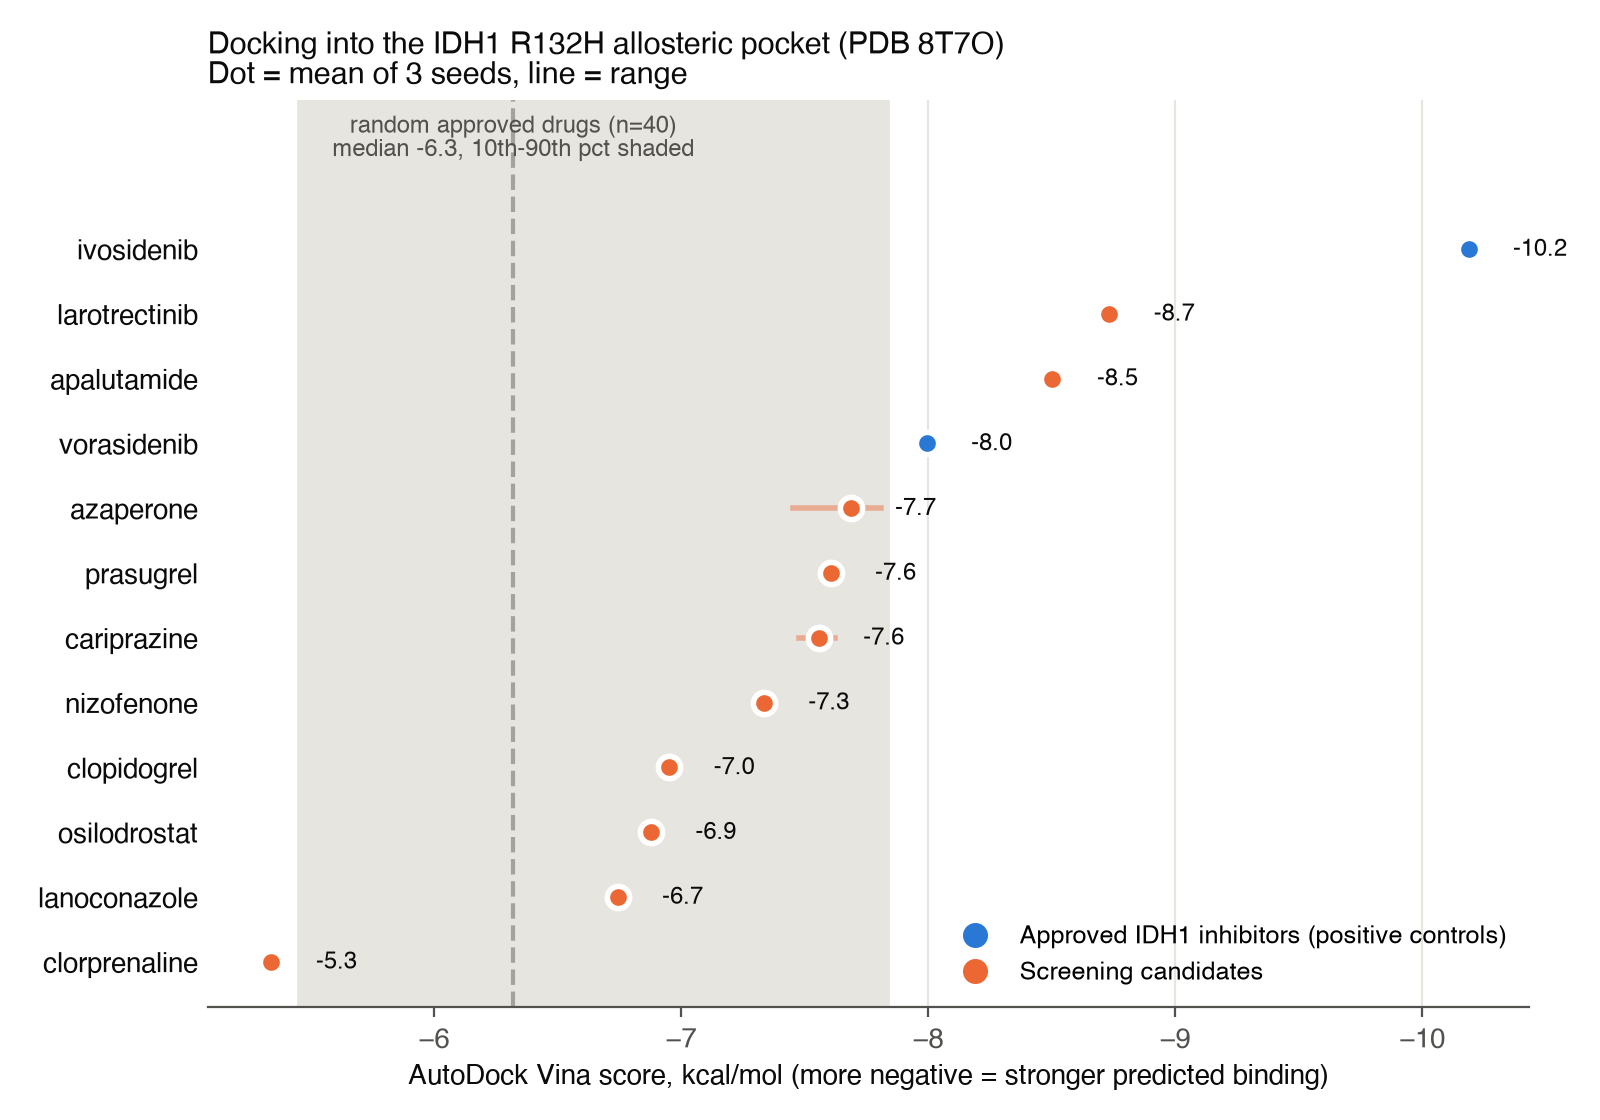
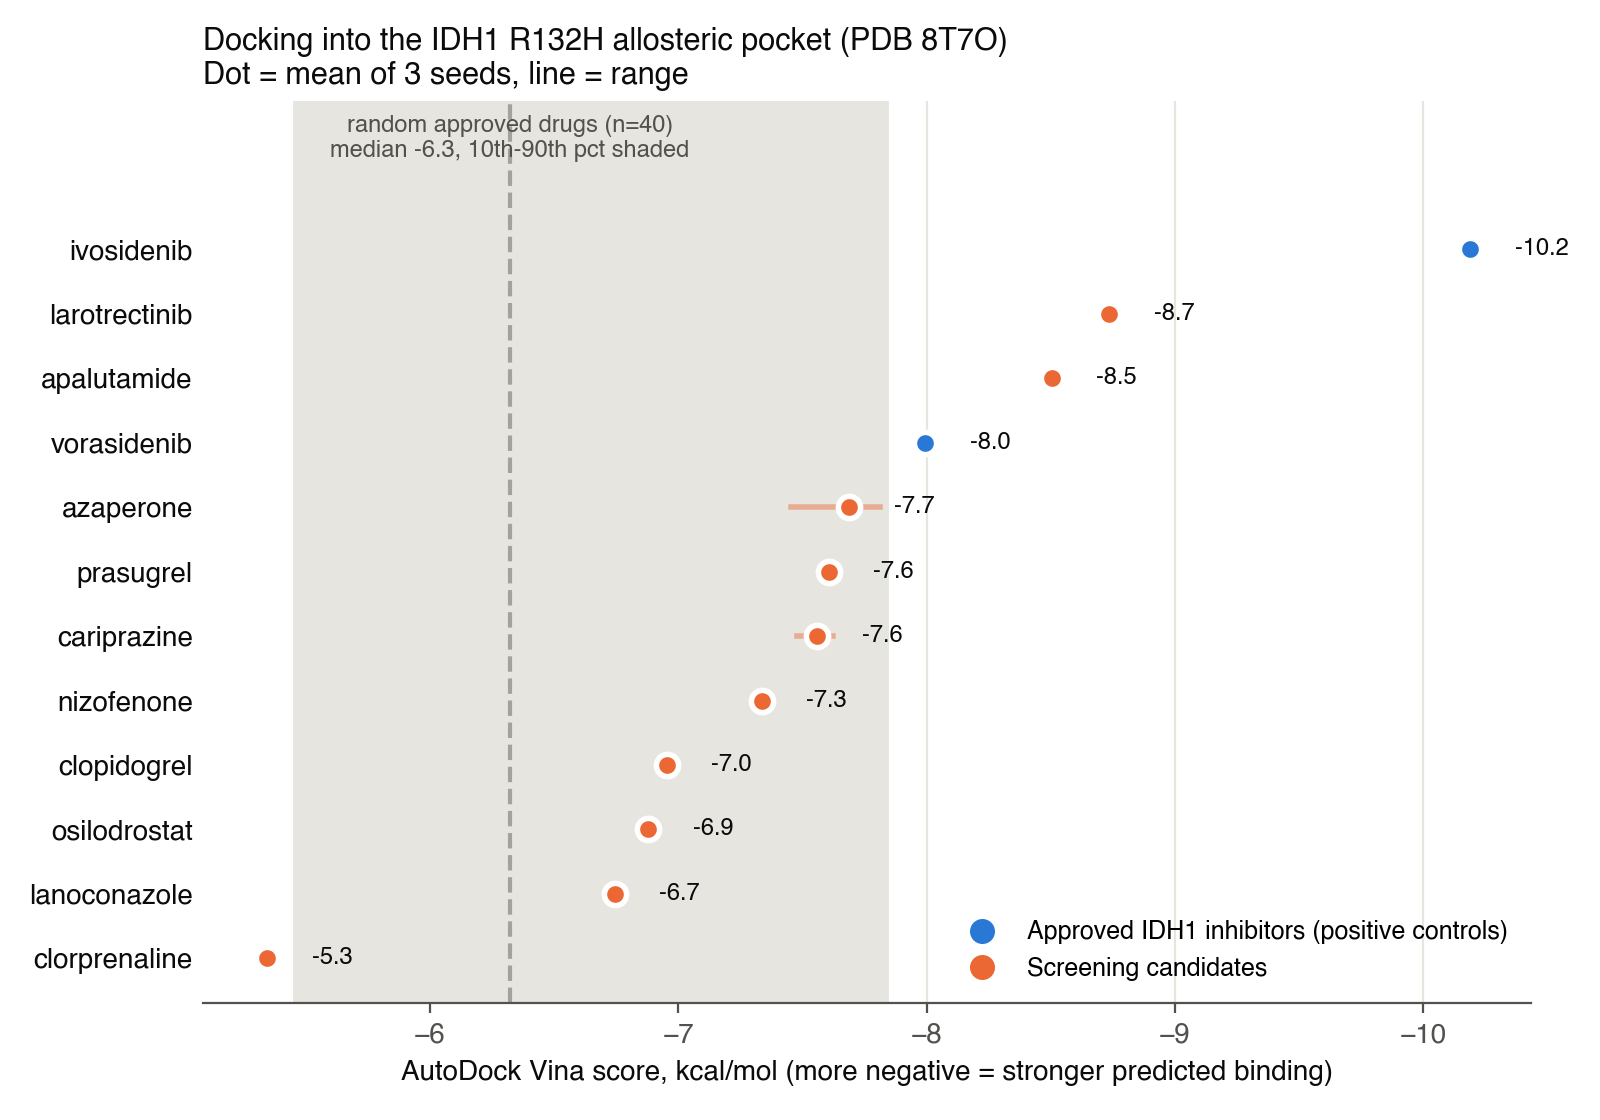
Add size-adjusted docking analysis; candidates' advantage is mostly molecule size

diff --git a/make_figures.py b/make_figures.py
@@ -1,5 +1,6 @@
 """Figures for the README from results/docking_summary.csv and results/docking_scores_all_seeds.csv."""
 import matplotlib.pyplot as plt
+import numpy as np
 import pandas as pd
 
 COLORS = {"control": "#2a78d6", "candidate": "#eb6834", "background": "#a3a29c"}
@@ -10,6 +11,15 @@ plt.rcParams.update({"font.family": "Helvetica", "font.size": 10, "axes.edgecolo
 summary = pd.read_csv("results/docking_summary.csv")
 seeds = pd.read_csv("results/docking_scores_all_seeds.csv")
 bg = summary[summary.group == "background"]
+
+# --- Size adjustment: fit score ~ heavy atoms across all docked drugs, keep the residual ---
+slope, intercept = np.polyfit(summary.heavy_atoms, summary["mean"], 1)
+summary["expected_from_size"] = slope * summary.heavy_atoms + intercept
+summary["beyond_size"] = summary["mean"] - summary["expected_from_size"]  # negative = better than size predicts
+summary["size_adjusted_rank"] = summary["beyond_size"].rank().astype(int)
+(summary.sort_values("beyond_size")
+ [["compound", "group", "mean", "heavy_atoms", "expected_from_size", "beyond_size", "size_adjusted_rank"]]
+ .round(2).to_csv("results/size_adjusted.csv", index=False))
 
 # --- Figure 1: scores vs the random-drug background ---
 ranked = summary[summary.group != "background"].sort_values("mean", ascending=False)
@@ -54,6 +64,9 @@ for _, r in summary[summary.group != "background"].iterrows():
         ax.annotate(r.compound, (r.heavy_atoms, r["mean"]), xytext=(6, 2),
                     textcoords="offset points", fontsize=8.5, color=INK)
 r = summary.heavy_atoms.corr(-summary["mean"])  # size vs predicted affinity
+xs = np.array([summary.heavy_atoms.min(), summary.heavy_atoms.max()])
+ax.plot(xs, slope * xs + intercept, color=MUTED, lw=1.2, ls="--", zorder=2,
+        label=f"Size-only fit ({slope:.2f} kcal/mol per heavy atom)")
 ax.set_xlabel("Heavy atoms (molecule size)")
 ax.set_ylabel("Vina score, kcal/mol")
 ax.invert_yaxis()
@@ -66,4 +79,6 @@ ax.set_title(f"Bigger molecules score better\nPearson r = {r:.2f} between size a
              f"n = {len(summary)} drugs", loc="left", fontsize=11, color=INK)
 fig.tight_layout()
 fig.savefig("results/size_bias.png", dpi=200, facecolor="white")
-print(f"Saved figures. Size-score correlation r = {r:.2f}")
+print(f"Saved figures. Size-score correlation r = {r:.2f}, slope {slope:.3f} kcal/mol per heavy atom")
+print(summary.sort_values("beyond_size")[["compound", "group", "mean", "expected_from_size", "beyond_size",
+                                           "size_adjusted_rank"]].round(2).to_string(index=False))

diff --git a/README.md b/README.md
@@ -2,7 +2,7 @@
 
 **Goal:** look for FDA-approved drugs that might be repurposed against the IDH1 R132H mutation that drives many gliomas, by combining a ligand-based screen (drug-likeness, brain penetration, similarity to the IDH1 inhibitor ivosidenib) with structure-based docking into the IDH1 R132H inhibitor pocket.
 
-**Result:** the screening funnel narrowed 2,712 approved drugs to 10 candidates. After docking them into the inhibitor pocket with a validated setup, **larotrectinib (-8.7 kcal/mol) and apalutamide (-8.5) scored best**. Both scored better than vorasidenib (-8.0), an approved IDH inhibitor, and beat 38 of 40 random approved drugs docked the same way. They still fell short of ivosidenib (-10.2), and docking scores here track molecule size closely (r = 0.85). So this is a **hypothesis worth testing in an enzyme assay, not evidence of binding.**
+**Result:** the screening funnel narrowed 2,712 approved drugs to 10 candidates. After docking them into the inhibitor pocket with a validated setup, **larotrectinib (-8.7 kcal/mol) and apalutamide (-8.5) had the best raw scores**, better than vorasidenib (-8.0, an approved IDH inhibitor) and 38 of 40 random approved drugs, though short of ivosidenib (-10.2). **But docking scores here track molecule size closely (r = 0.85), and after adjusting for size, neither candidate stands out:** larotrectinib scores only 0.26 kcal/mol better than its size predicts (rank 17 of 52), and apalutamide scores worse than its size predicts. Even the two approved IDH inhibitors sit on the size line. So this docking setup does not separate real inhibitors from random drugs, and the candidates are **weak leads to test in an enzyme assay, not evidence of binding.**
 
 ![Docking scores for candidates and controls against a random-drug background](results/docking_scores.png)
 
@@ -19,7 +19,7 @@
 | 8. Docking | AutoDock Vina 1.2.7, 22 Å box on the crystal ivosidenib, exhaustiveness 16, 3 seeds | `results/docking_summary.csv` |
 | 9. Context | 2 approved IDH inhibitors as positive controls + 40 random drugs from the same filtered pool | Background distribution |
 
-Scripts: [`screening.py`](screening.py) (steps 1-5), [`docking.py`](docking.py) (6, 8, 9), [`validate_redock.py`](validate_redock.py) (7), [`make_figures.py`](make_figures.py).
+Scripts: [`screening.py`](screening.py) (steps 1-5), [`docking.py`](docking.py) (6, 8, 9), [`validate_redock.py`](validate_redock.py) (7), [`make_figures.py`](make_figures.py) (figures + size adjustment).
 
 ## Results
 | Compound | Role | Vina score (mean of 3 seeds, kcal/mol) | Heavy atoms |
@@ -39,6 +39,23 @@ Scripts: [`screening.py`](screening.py) (steps 1-5), [`docking.py`](docking.py) 
 | 40 random approved drugs | background | median -6.32, 90th percentile -7.84 | |
 
 Scores were stable across seeds (largest standard deviation 0.20 kcal/mol, azaperone).
+
+## Size-adjusted scores
+Because Vina scores improve with molecule size, I fit score against heavy-atom count across all 52 docked drugs (about -0.17 kcal/mol per heavy atom) and compared each drug's actual score with the score its size alone predicts. Negative "beyond size" means better than size predicts. Full table: [`results/size_adjusted.csv`](results/size_adjusted.csv).
+
+| Compound | Role | Vina score | Expected from size | Beyond size | Rank of 52 |
+|---|---|---|---|---|---|
+| dydrogesterone | random drug (best overall) | -9.02 | -7.13 | -1.89 | 1 |
+| osilodrostat | candidate (best candidate) | -6.88 | -6.12 | -0.76 | 5 |
+| larotrectinib | candidate | -8.73 | -8.47 | -0.26 | 17 |
+| vorasidenib | positive control | -8.00 | -7.80 | -0.20 | 20 |
+| ivosidenib | positive control | -10.19 | -10.15 | -0.04 | 25 |
+| apalutamide | candidate | -8.50 | -8.81 | +0.30 | 36 |
+
+What this means:
+- **Larotrectinib and apalutamide rank first among candidates mostly because they are among the largest.** Once size is accounted for, both land in the middle of the pack.
+- **The positive controls don't stand out either.** Ivosidenib and vorasidenib score almost exactly what their size predicts, so in this setup the score mostly measures size, not a specific fit to the IDH1 inhibitor pocket.
+- The best size-adjusted drug is a random one (dydrogesterone), which is a reminder that a single docking score is a weak signal.
 
 ## Docking validation
 A docking setup is usually considered validated when it can redock the crystal ligand to within 2 Å RMSD of its crystal position.
@@ -67,11 +84,11 @@ This is a reworked version of my RBIF110 (Brandeis, cheminformatics) final proje
 
 The screening half reproduced exactly (every funnel count and the same 10 candidates). Larotrectinib stayed the top candidate (-8.53 before, -8.73 now). Other rankings changed: in the original, nizofenone was second (-7.15) and cariprazine third (-6.66); apalutamide is now second.
 
-![Docking score vs. molecule size](results/size_bias.png)
+![Docking score vs. molecule size, with the size-only fit line](results/size_bias.png)
 
 ## Limitations
 - **Weak similarity.** The best Tanimoto similarity to ivosidenib in the filtered library was only 0.21, so the 10 candidates are not real structural analogs of ivosidenib; similarity mostly acted as a tiebreaker.
-- **Size bias.** Vina scores improve with molecule size (r = 0.85 across all 52 docked drugs). Larotrectinib and apalutamide are among the larger candidates, which explains part of their advantage. Ligand efficiency (score per heavy atom) is in `results/docking_summary.csv`.
+- **Size bias.** Vina scores improve with molecule size (r = 0.85 across all 52 docked drugs). Larotrectinib and apalutamide are among the larger candidates, and size explains most of their advantage (see Size-adjusted scores). Ligand efficiency (score per heavy atom) is in `results/docking_summary.csv`.
 - **Scores do not separate real inhibitors.** Vorasidenib, a proven IDH inhibitor, scored below two candidates and below three random drugs (dydrogesterone -9.0, isavuconazole -8.8, olopatadine -8.2). Part of this may be induced fit: the pocket in 8T7O is shaped around ivosidenib.
 - **Rigid receptor, neutral ligands.** No protein flexibility, and ligands were docked in their neutral form.
 - **Brain penetration** is a simple property rule, not a measured value.
